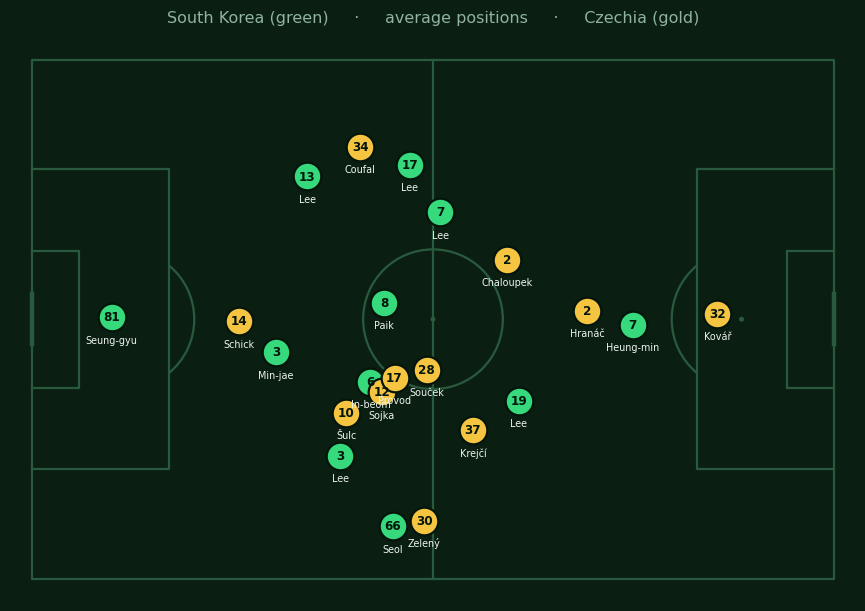
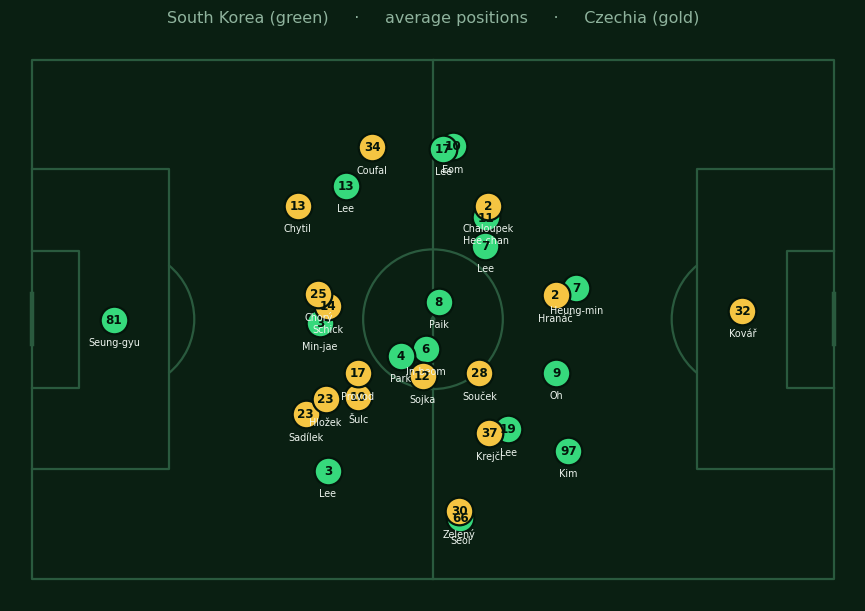
Self-sufficient mini (runs watcher during matches), watcher rsync crash fix, overnight result filed

diff --git a/scripts/sofascore_live.py b/scripts/sofascore_live.py
@@ -575,10 +575,13 @@ def publish_live_updates(out, prev_live_ids, live_ids):
 
 
 def mirror_to_mini():
-    subprocess.run(
-        ["rsync", "-a", "--exclude", ".DS_Store", "--exclude", "*.tmp",
-         str(DOCS) + "/", "macmini:worldcup-sweepstake/docs/"],
-        capture_output=True, timeout=60)
+    try:
+        subprocess.run(
+            ["rsync", "-a", "--exclude", ".DS_Store", "--exclude", "*.tmp",
+             str(DOCS) + "/", "macmini:worldcup-sweepstake/docs/"],
+            capture_output=True, timeout=60)
+    except Exception as e:
+        print(f"  mirror to mini failed ({e}); continuing")
 
 
 def atomic_write(path, text):